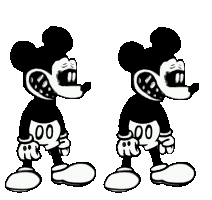
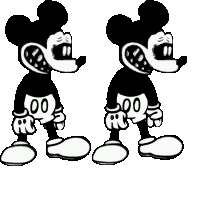
really unhappy

diff --git a/src/character/crazym.c b/src/character/crazym.c
@@ -57,52 +57,52 @@ typedef struct
 
 //Christmas Parents definitions
 static const CharFrame char_crazym_frame[] = {
-	{crazym_ArcMain_Idle0, {  0,   0, 102, 200}, { 74, 182}}, 
-	{crazym_ArcMain_Idle0, {102,   0, 110, 200}, { 74, 182}}, 
-	{crazym_ArcMain_Idle1, {  0,   0, 100, 200}, { 74, 182}},  
-	{crazym_ArcMain_Idle1, {100,   0, 112, 200}, { 74, 182}},  
-	{crazym_ArcMain_Idle2, {  0,   0, 110, 200}, { 74, 182}}, 
-	{crazym_ArcMain_Idle2, {110,   0, 110, 200}, { 74, 182}}, 
-	{crazym_ArcMain_Idle3, {  0,   0, 110, 200}, { 74, 182}},  
-	{crazym_ArcMain_Idle3, {110,   0, 110, 200}, { 74, 182}},  
+	{crazym_ArcMain_Idle0, {  0,   0, 91, 167}, { 41, 162}}, 
+	{crazym_ArcMain_Idle0, { 92,   0, 95, 166}, { 42, 161}}, 
+	{crazym_ArcMain_Idle1, {  0,   0, 96, 159}, { 44, 154}},  
+	{crazym_ArcMain_Idle1, { 97,   0, 113, 134}, { 54, 129}},  
+	{crazym_ArcMain_Idle2, {  0,   0, 108, 133}, { 49, 128}}, 
+	{crazym_ArcMain_Idle2, {109,   0, 108, 134}, { 48, 129}}, 
+	{crazym_ArcMain_Idle3, {  0,   0, 107, 136}, { 48, 131}},  
+	{crazym_ArcMain_Idle3, {108,   0, 100, 149}, { 45, 145}},  
 
-	{crazym_ArcMain_LeftA0, {0,   0, 212, 200}, {130, 182}}, 
-	{crazym_ArcMain_LeftA1, {0,   0, 212, 200}, {130, 182}}, 
-	{crazym_ArcMain_LeftA2, {0,   0, 212, 200}, {130, 182}}, 
-	{crazym_ArcMain_LeftA3, {0,   0, 212, 200}, {130, 182}}, 
+	{crazym_ArcMain_LeftA0, {0,   0, 102, 166}, {52, 161}}, 
+	{crazym_ArcMain_LeftA1, {0,   0, 91, 168}, {40, 163}}, 
+	{crazym_ArcMain_LeftA2, {0,   0, 97, 168}, {47, 163}}, 
+	{crazym_ArcMain_LeftA3, {0,   0, 92, 168}, {42, 163}}, 
 
-	{crazym_ArcMain_DownA0, {0,   0, 212, 200}, {130, 182}}, 
-	{crazym_ArcMain_DownA1, {0,   0, 212, 200}, {130, 182}}, 
-	{crazym_ArcMain_DownA2, {0,   0, 212, 200}, {130, 182}},  
-	{crazym_ArcMain_DownA3, {0,   0, 212, 200}, {130, 182}}, 
+	{crazym_ArcMain_DownA0, {0,   0, 110, 126}, {52, 125}}, 
+	{crazym_ArcMain_DownA1, {0,   0, 105, 129}, {50, 128}}, 
+	{crazym_ArcMain_DownA2, {0,   0, 103, 136}, {49, 136}},  
+	{crazym_ArcMain_DownA3, {0,   0, 102, 134}, {48, 134}}, 
 	
-	{crazym_ArcMain_UpA0, {0,   0, 212, 200}, {130, 182}}, 
-	{crazym_ArcMain_UpA1, {0,   0, 212, 200}, {130, 182}}, 
-	{crazym_ArcMain_UpA2, {0,   0, 212, 200}, {130, 182}}, 
-	{crazym_ArcMain_UpA3, {0,   0, 212, 200}, {130, 182}}, 
+	{crazym_ArcMain_UpA0, {0,   0, 124, 160}, {68, 155}}, 
+	{crazym_ArcMain_UpA1, {0,   0, 110, 154}, {60, 149}},
+	{crazym_ArcMain_UpA2, {0,   0, 131, 160}, {69, 155}}, 
+	{crazym_ArcMain_UpA3, {0,   0, 118, 152}, {63, 147}}, 
 	
-	{crazym_ArcMain_RightA0, {0,   0, 212, 200}, {130, 182}}, 
-	{crazym_ArcMain_RightA1, {0,   0, 212, 200}, {130, 182}}, 
-	{crazym_ArcMain_RightA2, {0,   0, 212, 200}, {130, 182}}, 
-	{crazym_ArcMain_RightA3, {0,   0, 212, 200}, {130, 182}}, 
+	{crazym_ArcMain_RightA0, {0,   0, 113, 160}, {43, 155}}, 
+	{crazym_ArcMain_RightA1, {0,   0, 111, 158}, {41, 153}}, 
+	{crazym_ArcMain_RightA2, {0,   0, 105, 161}, {41, 156}}, 
+	{crazym_ArcMain_RightA3, {0,   0, 103, 160}, {41, 155}}, 
 
-	{crazym_ArcMain_Spook0, {0,   0, 212, 240}, {130, 228}}, 
-	{crazym_ArcMain_Spook1, {0,   0, 212, 240}, {130, 228}}, 
-	{crazym_ArcMain_Spook2, {0,   0, 212, 240}, {130, 228}},  
-	{crazym_ArcMain_Spook3, {0,   0, 212, 240}, {130, 228}},  
-	{crazym_ArcMain_Spook4, {0,   0, 212, 240}, {130, 228}}, 
+	{crazym_ArcMain_Spook0, {0,   0, 139, 210}, {72, 205}}, 
+	{crazym_ArcMain_Spook1, {0,   0, 134, 216}, {71, 221}}, 
+	{crazym_ArcMain_Spook2, {0,   0, 142, 217}, {73, 212}},  
+	{crazym_ArcMain_Spook3, {0,   0, 141, 213}, {76, 208}},  
+	{crazym_ArcMain_Spook4, {0,   0, 144, 217}, {74, 212}}, 
 };
 
 static const Animation char_crazym_anim[CharAnim_Max] = {
-	{2, (const u8[]){ 0, 1, 2, 3, 4, 5, 6, 7, ASCR_BACK, 1}}, //CharAnim_Idle
+	{1, (const u8[]){ 1, 1, 2, 2, 3, 3, 4, 4, 5, 5, 6, 6, 7, 7, 0, 1, 1, 2, 2, 3, 3, 4, 4, 5, 5, 6, 6, 7, 7, 0, ASCR_BACK, 1}}, //CharAnim_Idle
 	{2, (const u8[]){ 8, 9, 10, 11, ASCR_BACK, 1}},         //CharAnim_Left
-	{1, (const u8[]){ 24, 25, 26, 27, 28, ASCR_BACK, 4}},         //CharAnim_spook
+	{1, (const u8[]){ 24, 25, ASCR_BACK, 4}},         //CharAnim_spook
 	{2, (const u8[]){ 12, 13, 14, 15, ASCR_BACK, 1}},         //CharAnim_Down
-	{1, (const u8[]){ 24, 25, 26, 27, 28, ASCR_BACK, 4}},         //CharAnim_spook
+	{1, (const u8[]){ 26, 27, ASCR_BACK, 4}},         //CharAnim_spook
 	{2, (const u8[]){ 16, 17, 18, 19, ASCR_BACK, 1}},         //CharAnim_Up
-	{1, (const u8[]){ 24, 25, 26, 27, 28, ASCR_BACK, 4}},         //CharAnim_spook
+	{1, (const u8[]){ 27, 28, ASCR_BACK, 4}},         //CharAnim_spook
 	{2, (const u8[]){ 20, 21, 22, 23, ASCR_BACK, 1}},         //CharAnim_Right
-	{1, (const u8[]){ 24, 25, 26, 27, 28, ASCR_BACK, 4}},         //CharAnim_spook
+	{2, (const u8[]){ 28, ASCR_BACK, 4}},         //CharAnim_spook
 };
 
 //Christmas Parents functions

diff --git a/src/character/happym.c b/src/character/happym.c
@@ -138,7 +138,7 @@ static const Animation char_happym_anim[CharAnim_Max] = {
 	{2, (const u8[]){ 20, 21, 22, 23, ASCR_BACK, 4}},         //CharAnim_Right
 	{2, (const u8[]){ASCR_CHGANI, CharAnim_IdleAlt}},  
 
-	{1, (const u8[]){ 40, 41, 42, 43, 44, 45, 46, 47, 47, 40, 41, 42, 43, 44, 45, 46, 47, 40, ASCR_BACK, 1}}, //CharAnim_Idleb
+	{1, (const u8[]){ 40, 41, 42, 43, 43, 44, 44, 45, 45, 46, 47, 47, 40, 41, 42, 43, 43, 44, 44, 45, 45, 46, 47, 40, ASCR_BACK, 1}}, //CharAnim_Idleb
 	{2, (const u8[]){ 24, 25, 26, 27, ASCR_BACK, 4}}, 
 	{2, (const u8[]){ 28, 29, 30, 31, ASCR_BACK, 4}}, 
 	{2, (const u8[]){ 32, 33, 34, 35, ASCR_BACK, 4}}, 
